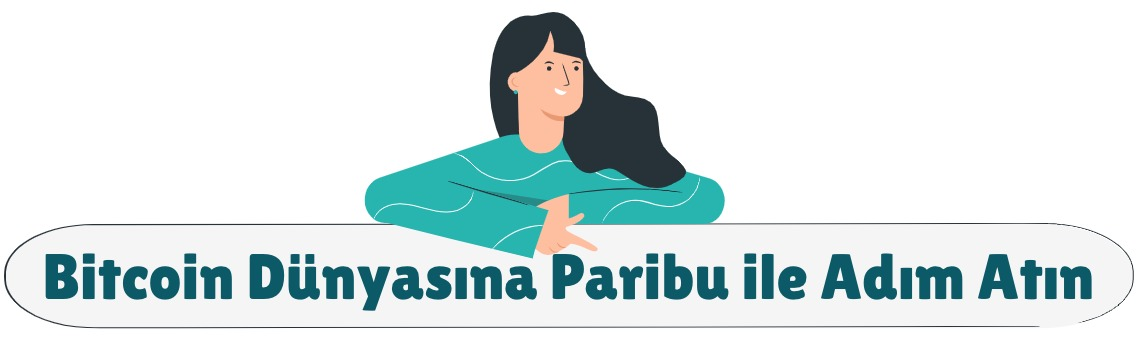
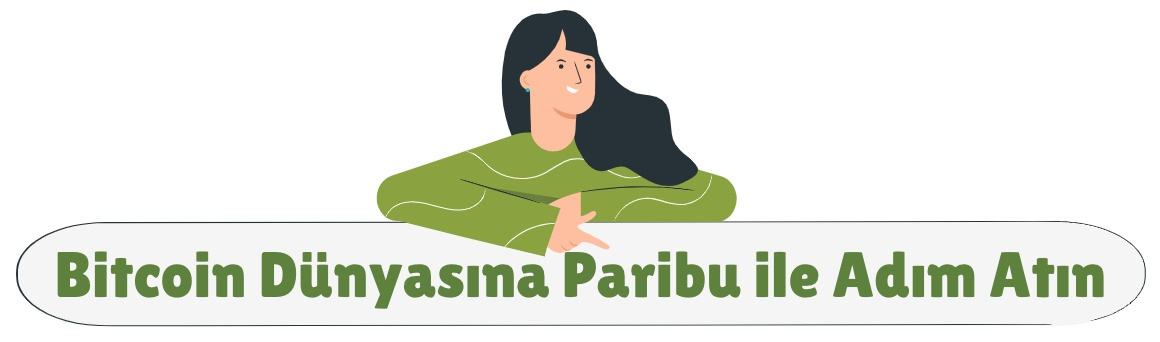
Sponsorlu içerik görsel  geliştirildi

Changed region(s): [[0.0, 0.0296, 1.0, 0.9763], [0.9146, 0.6509, 0.9756, 0.7101], [0.9756, 0.7101, 1.0, 0.7692]]

diff --git a/arşiv/40-49/sponsorlu_kirkucuncu_bulten26.11.2020.html b/arşiv/40-49/sponsorlu_kirkucuncu_bulten26.11.2020.html
@@ -303,7 +303,7 @@
     .haber-gorseli-sabit {
       object-fit: cover;
       width: 90%;
-      height: 100px;
+      /*height: 100px;*/
       margin: 0px 5px 5px 5px;
       border-radius: 10px;
     }
@@ -539,9 +539,9 @@
       <h4 class="tarz-dokuz">.</h4>
       <h1 id="başlık-dokuz" class="part-header part-dokuz"> Sponsorlu İçerik </h1>
       <article>
-        <h2 class="news-header"> Bitcoin Dünyasına Paribu ile Adım Atın </h2><br>
+        <!-- <h2 class="news-header"> Bitcoin Dünyasına Paribu ile Adım Atın </h2><br> -->
         <img
-          src="https://i0.wp.com/kriptokoin.com/wp-content/uploads/2020/04/paribu-kriptokoin-com-1-1.jpg?fit=1280%2C853&ssl=1"
+          src="https://raw.githubusercontent.com/GenesisNews/Genesis/master/Haber%20G%C3%B6rselleri/Paribu1.jpeg"
           class="haber-gorseli-sabit" alt="Haber Görseli">
         <p class="news"> Dünyanın en popüler 22 kripto parası ile 7/24 işlem yapma imkanı ve günlük ortalama 48 milyon
           dolarlık işlem hacmiyle kullanıcılarına hızlı, kolay ve güvenli bir merkeziyetsiz finans deneyimi sağlayan
@@ -562,6 +562,9 @@
           yapmalarının
           ardından istedikleri gibi kullanabilecekleri 10 TL tanımlanacaktır.
         </p>
+        <img
+        src="https://i0.wp.com/kriptokoin.com/wp-content/uploads/2020/04/paribu-kriptokoin-com-1-1.jpg?fit=1280%2C853&ssl=1"
+        class="haber-gorseli-sabit" style="height: 100px;" alt="Haber Görseli">
       </article>
     </div>
 
